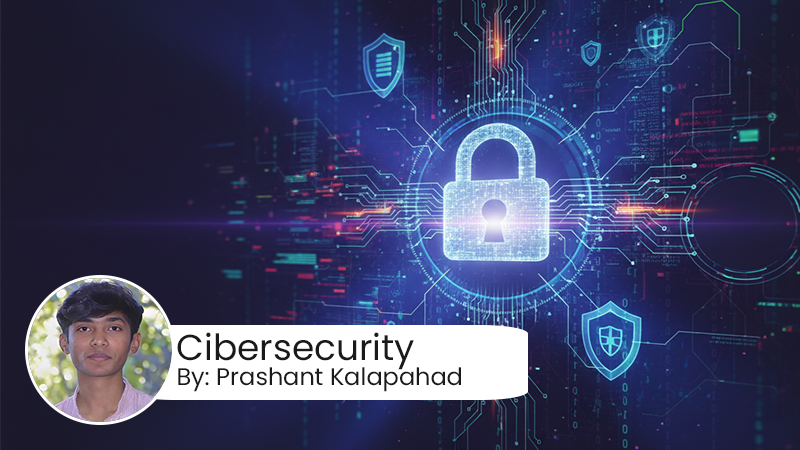
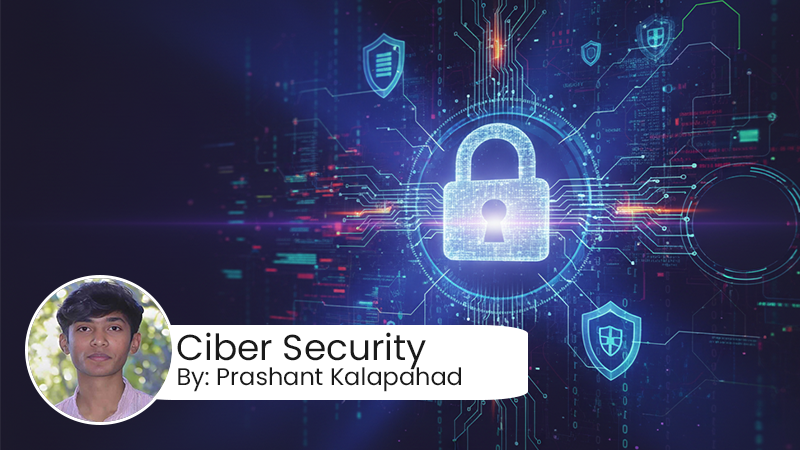
spelling mistakes corrected & new cover added

Changed region(s): [[0.3438, 0.7156, 0.5312, 0.84]]

diff --git a/docs/index.html b/docs/index.html
@@ -441,7 +441,7 @@
                 <!-- cover -->
                 <div class="course-cover">
                   <!-- image -->
-                  <img src="https://img-c.udemycdn.com/course/240x135/6418257_5e36_2.jpg" alt="">
+                  <img src="./assets/images/robotics-thumbnail.png" alt="">
                   <!-- animated icon -->
                   <div class="icon-bg">
                     <img width="64" height="64" src="https://img.icons8.com/nolan/64/robot.png" alt="for-experienced" class="course-icon" alt="for-experienced" class="course-icon"/>
@@ -569,7 +569,7 @@
                 <div class="card-content">
                   <!-- title -->
                   <h3 class="card-title">
-                    Cibersecurity       
+                    Ciber Security       
                   </h3>
                   <!-- smt btn -->
                   <button class="globalBtn btnGradient course-card-btn">
